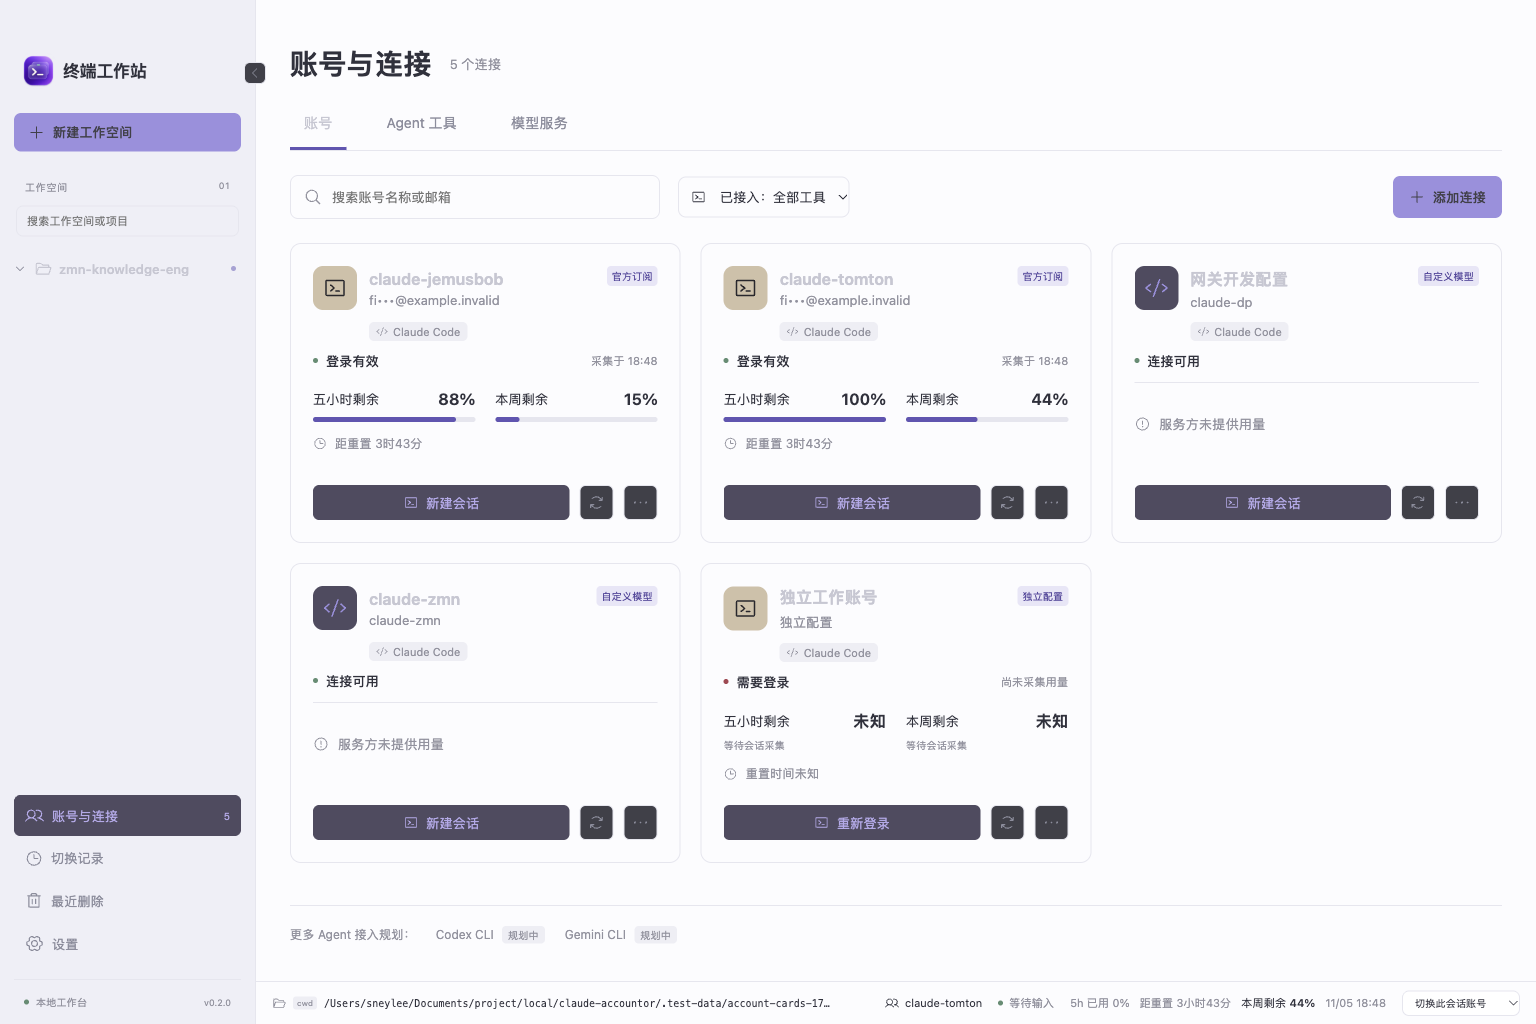
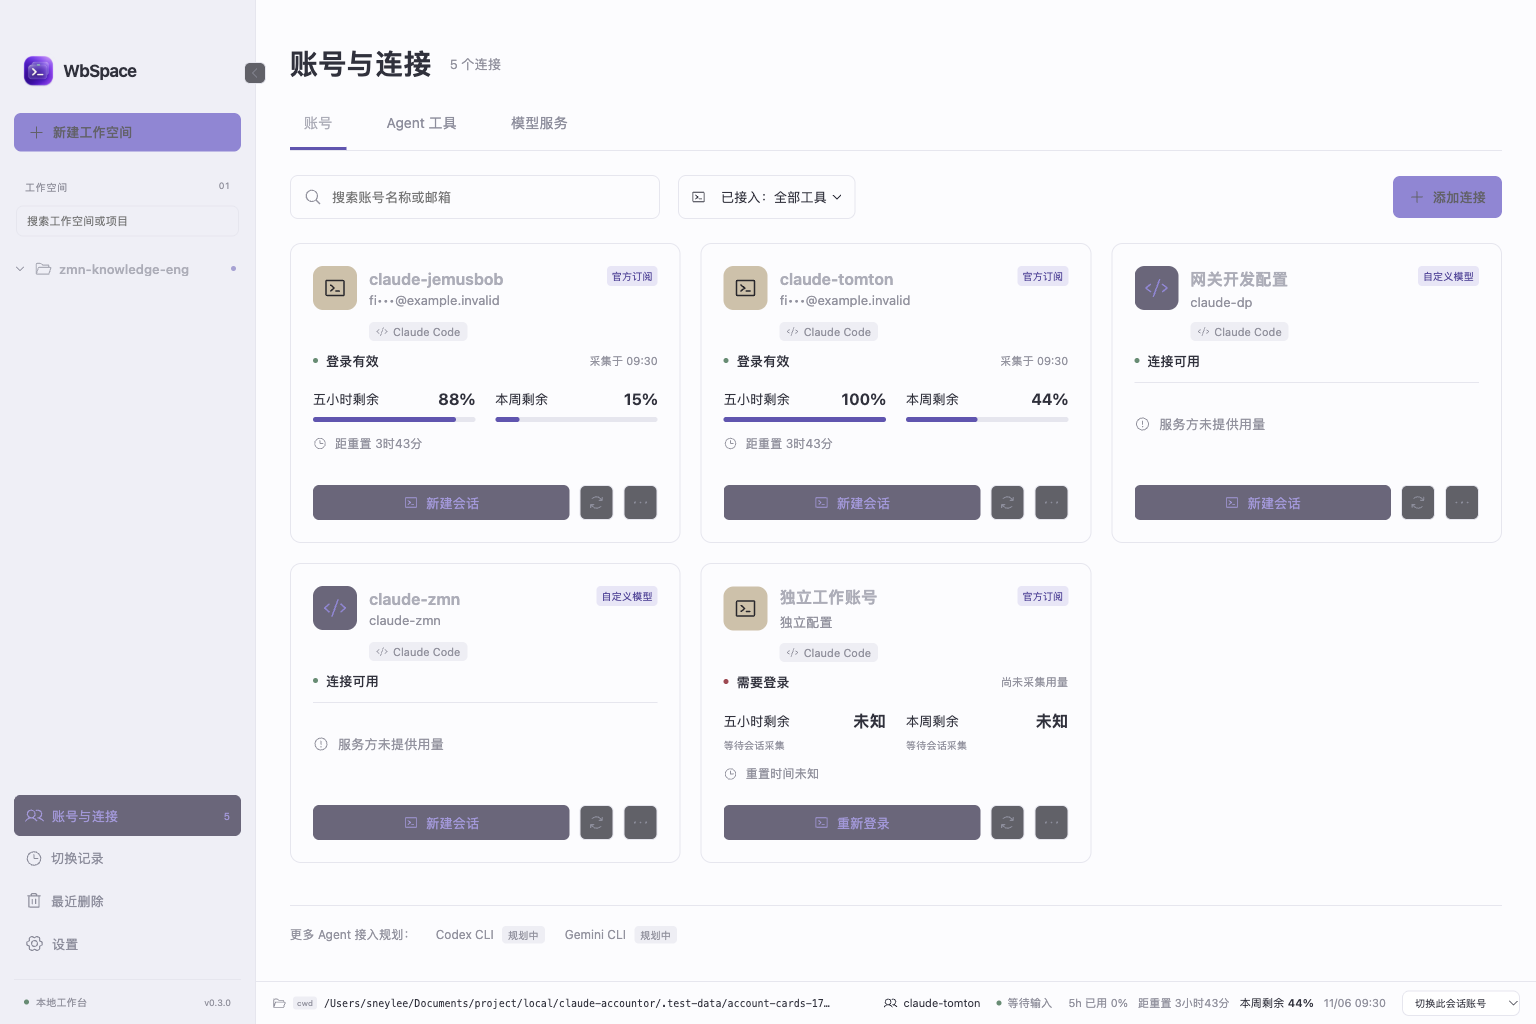
Refresh WbSpace account screenshots and final validation scope

diff --git a/docs/implementation-report.md b/docs/implementation-report.md
@@ -211,6 +211,6 @@ GitHub 交付状态：用户更新现有令牌的仓库写权限后，`main` 已
 
 终端选区使用不透明底色、对应前景和失焦颜色。已可视检查深色、失焦与浅色截图，并实际拖选 `(12 个通过 9 个)` 后验证原生剪贴板逐字一致，终端 PID 与快捷键行为保留。真实 CLI 恢复专项曾被“检测到 Chrome 扩展”确认页阻挡；捕获隔离测试输出后定位，启动参数增加 --no-chrome，不修改全局配置。原生 ID 恢复、删除保留检查点和从最近删除恢复三项随后通过，0 模型提示、无网页登录。
 
-验证摘要见 validation/v0.3.0。38 个单元测试通过；本轮多个包迭代验证 97 个不同集成检查，最终公共名称/选区/Chrome 调整后重新跑首启 8、标题与删除 9、终端 9、真实 CLI 3、跨品牌密钥 2 项。其他账号/文件/导航/恢复/额度回归在此前同版迭代通过。未在另一台真实 Mac、Intel Mac 或受管设备验收，不宣称未公证包必然能放行；后台自动更新和正式签名/公证不属于已验收能力。
+验证摘要见 validation/v0.3.0。38 个单元测试通过；本轮多个包迭代验证 97 个不同集成检查，最终公共名称/选区/Chrome 调整后重新跑首启 8、账号卡片 12、标题与删除 9、终端 9、真实 CLI 3、跨品牌密钥 2 项。其他账号/文件/导航/恢复/额度回归在此前同版迭代通过。未在另一台真实 Mac、Intel Mac 或受管设备验收，不宣称未公证包必然能放行；后台自动更新和正式签名/公证不属于已验收能力。
 
 交付为 `/Applications/WbSpace.app` 和 `release/WbSpace-0.3.0-mac-arm64-unsigned-beta.dmg`。源码继续同步原 GitHub 仓库，不公开上传用户数据或凭据。当前未创建公开 GitHub Release。
